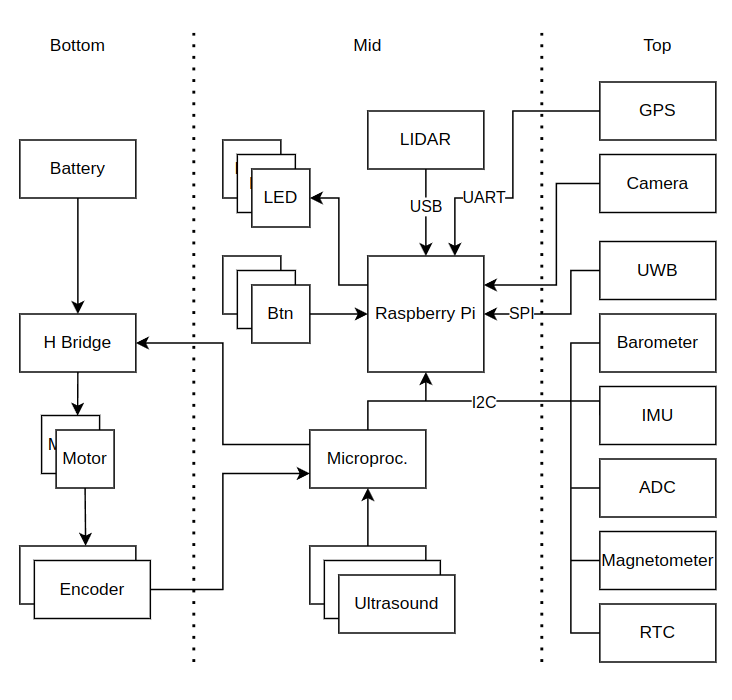
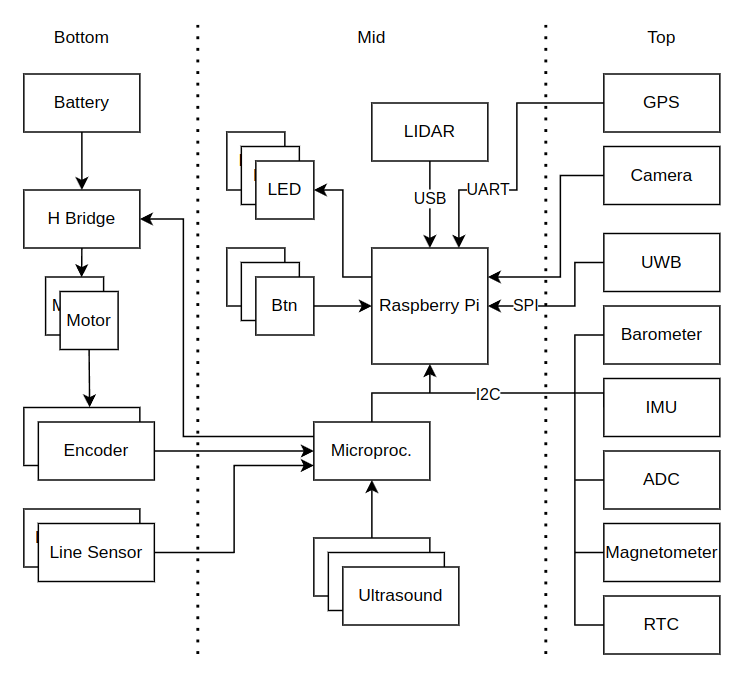
updated readme and overview schematics

diff --git a/README.md b/README.md
@@ -4,6 +4,10 @@
 
 The Fenrir Project is an open source of a multi purpose education robot dedicated for wide range of applications and usage in high-schools and universities.
 
+The robot is based on Raspberry Pi 4 and Arduino Nano. The Raspberry Pi provides computational power, ROS2 support, WiFi connection and USB support. The Arduino Nano extends the PRi IOs and handles peripherals.
+
+The development is currently still under development
+
 ## Robot Overview
 
 Robot visualization 
